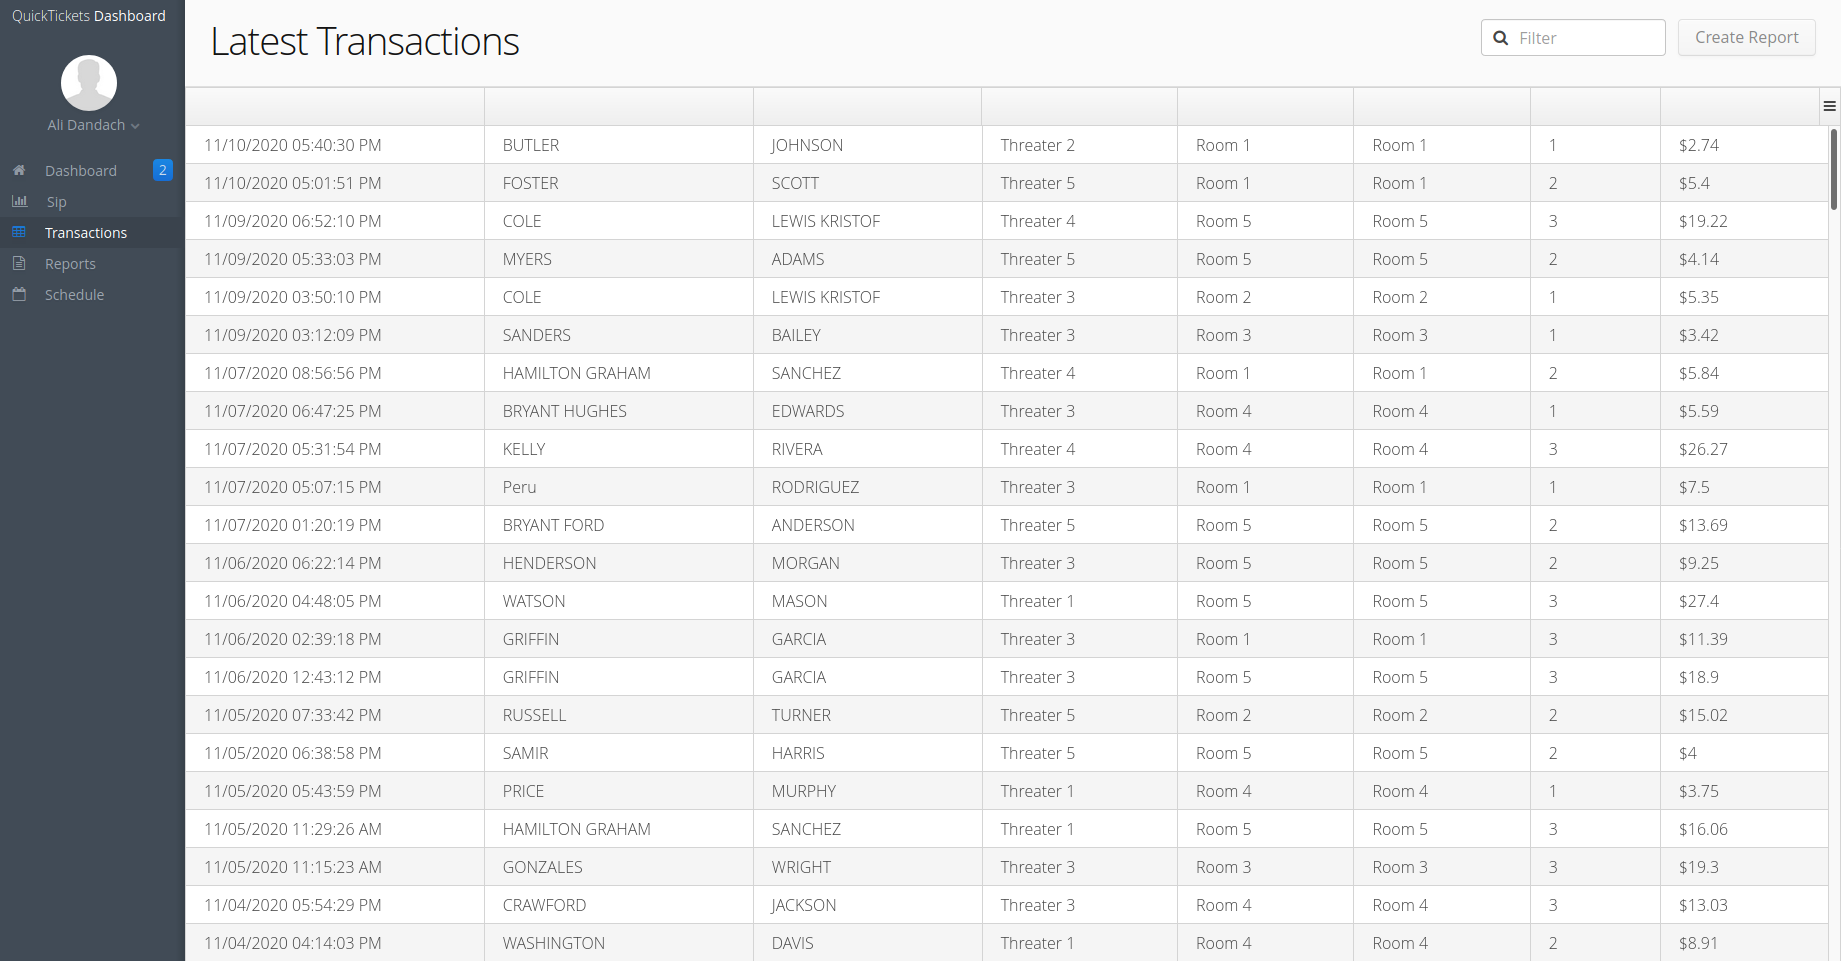
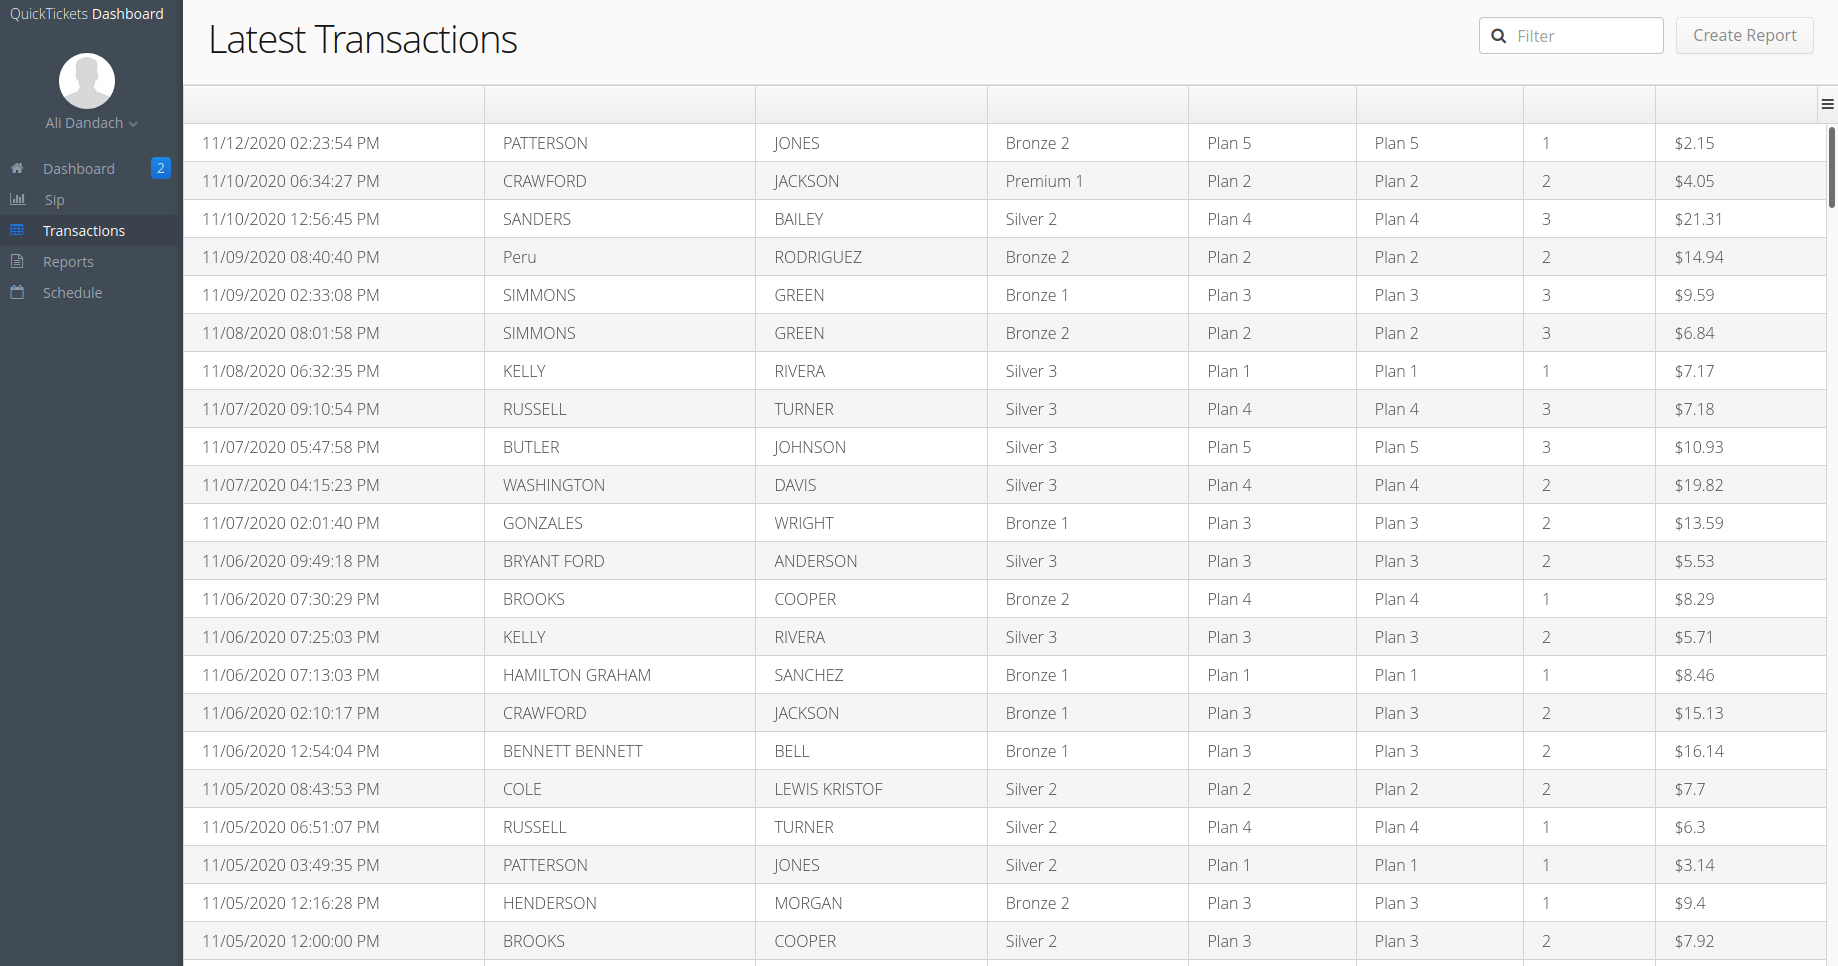
FE-05-Bug-Fix

diff --git a/src/main/java/com/vaadin/demo/dashboard/data/dummy/DummyDataProvider.java b/src/main/java/com/vaadin/demo/dashboard/data/dummy/DummyDataProvider.java
@@ -36,24 +36,24 @@ public class DummyDataProvider implements DataProvider {
         private static final long serialVersionUID = 1L;
 
         {
-            add("Threater 1");
-            add("Threater 2");
-            add("Threater 3");
-            add("Threater 4");
-            add("Threater 5");
-            add("Threater 6");
+            add("Premium 1");
+            add("Silver 2");
+            add("Silver 3");
+            add("Bronze 1");
+            add("Bronze 2");
+            add("Gold 1");
         }
     };
     static List<String> rooms = new ArrayList<String>() {
         private static final long serialVersionUID = 1L;
 
         {
-            add("Room 1");
-            add("Room 2");
-            add("Room 3");
-            add("Room 4");
-            add("Room 5");
-            add("Room 6");
+            add("Plan 1");
+            add("Plan 2");
+            add("Plan 3");
+            add("Plan 4");
+            add("Plan 5");
+            add("Plan 6");
         }
     };
     /* List of countries and cities for them */
